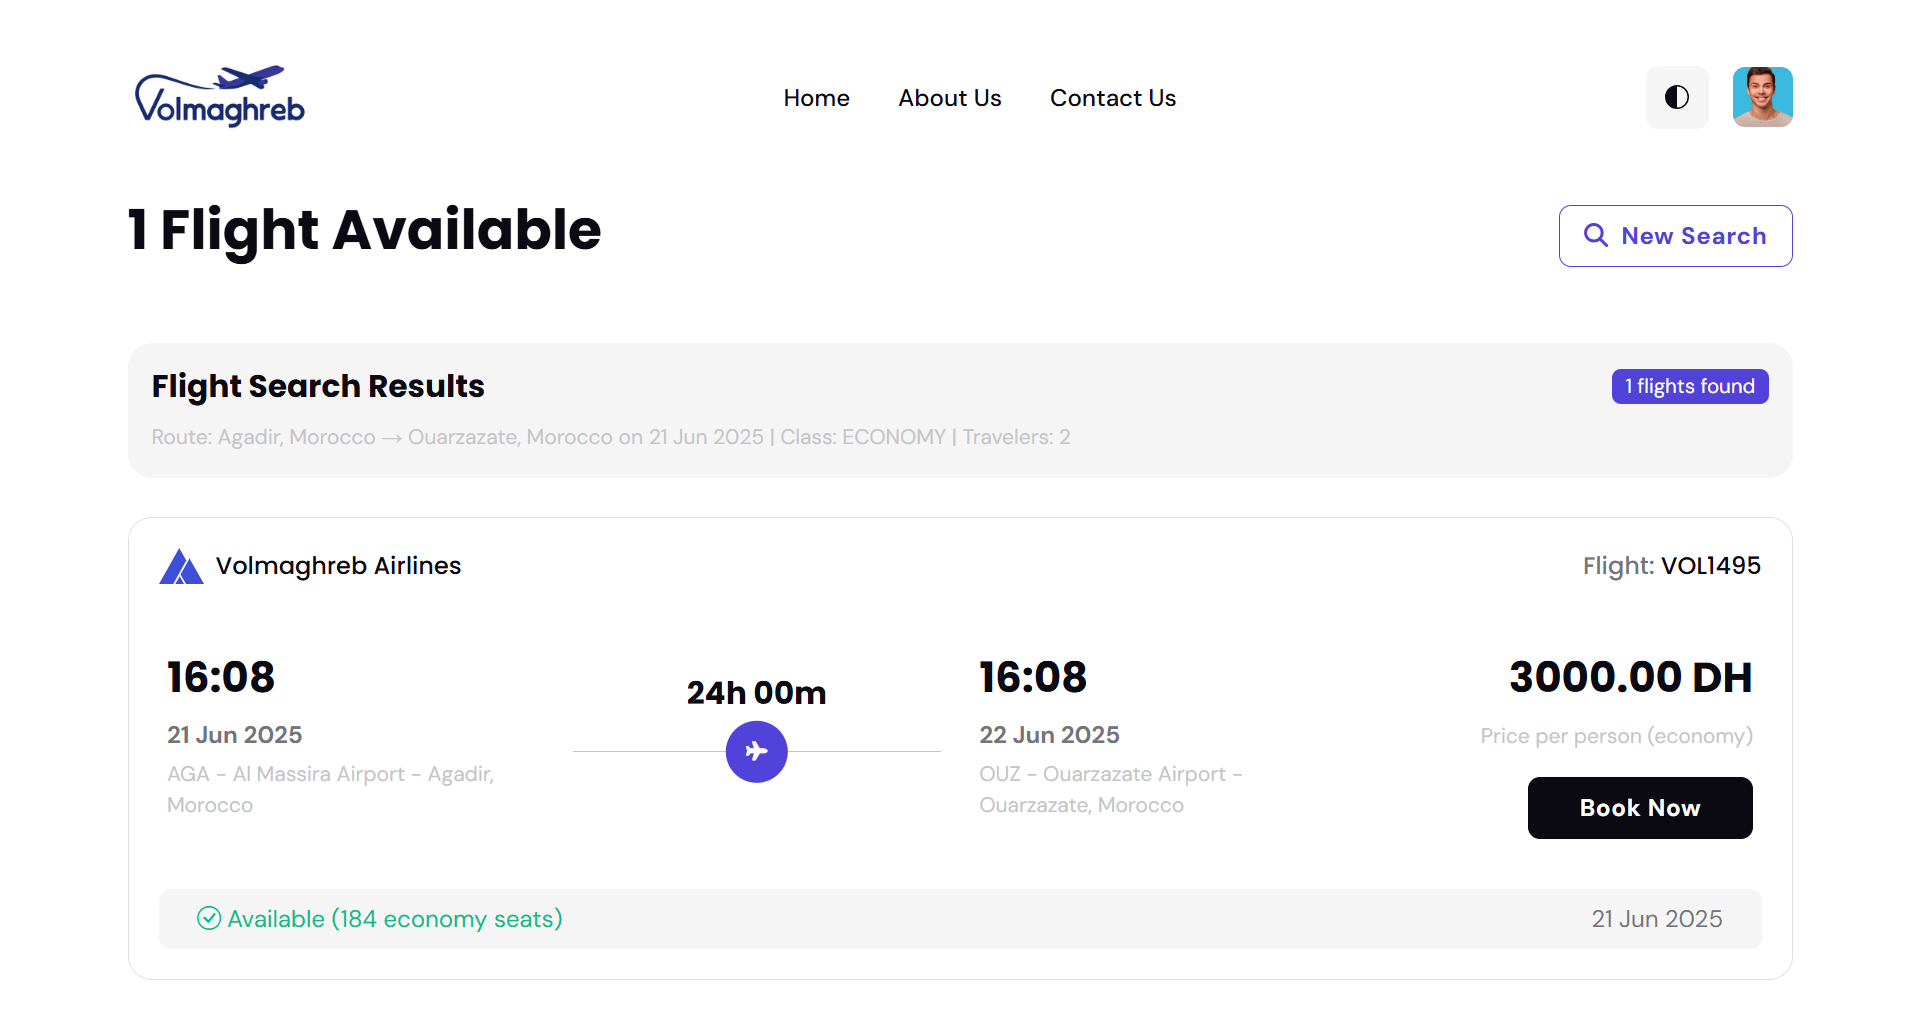
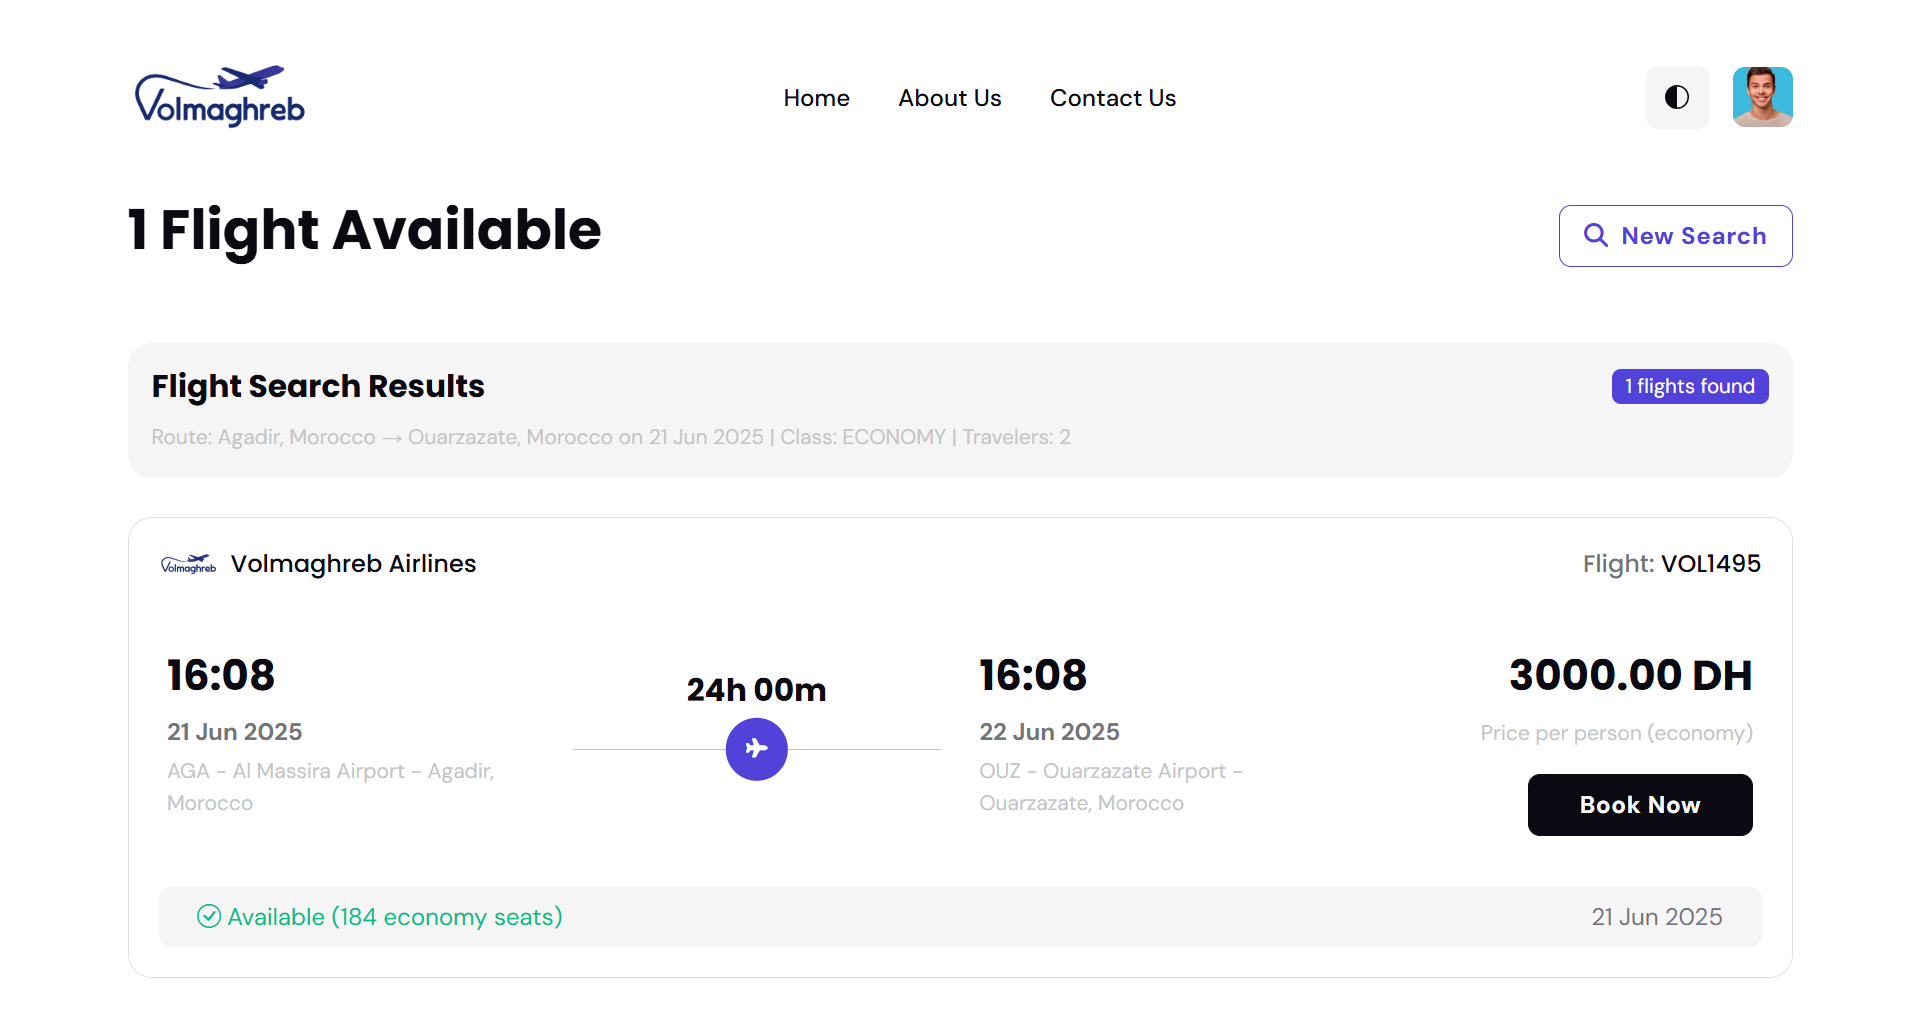
Updates airline branding across flight templates...

diff --git a/src/main/resources/templates/flights/flight-list.html b/src/main/resources/templates/flights/flight-list.html
@@ -78,12 +78,11 @@ Flight list START -->
 					<div th:if="${flights != null and flights.size() > 0}">
 						<div th:each="flight : ${flights}" class="card border">
 							<!-- Card header -->
-							<div class="card-header d-sm-flex justify-content-sm-between align-items-center">
-								<!-- Airline Name -->
-								<div class="d-flex align-items-center mb-2 mb-sm-0">
-									<img th:src="@{/assets/images/element/13.svg}" class="w-30px me-2" alt="">
-									<h6 class="fw-normal mb-0">Volmaghreb Airlines</h6>
-								</div>
+							<div class="card-header d-sm-flex justify-content-sm-between align-items-center">							<!-- Airline Name -->
+							<div class="d-flex align-items-center mb-2 mb-sm-0">
+								<img th:src="@{/assets/images/logo-dark.png}" class="w-40px me-2" alt="Volmaghreb Airlines Logo">
+								<h6 class="fw-normal mb-0">Volmaghreb Airlines</h6>
+							</div>
 								<h6 class="fw-normal mb-0">
 									<span class="text-body">Flight:</span> 
 									<span th:text="${flight.flightNumber}">VM001</span>

diff --git a/src/main/resources/templates/reservations/reservation-detail.html b/src/main/resources/templates/reservations/reservation-detail.html
@@ -56,7 +56,7 @@ Main Content START -->
 								<!-- Air line name -->
 								<div class="col-md-3">
 									<!-- Image -->
-									<img th:src="@{/assets/images/element/13.svg}" class="w-80px mb-3" alt="">
+									<img th:src="@{/assets/images/logo-dark.png}" class="w-90px mb-3" alt="Volmaghreb Airlines Logo">
 									<!-- Title -->
 									<h6 class="fw-normal mb-0" th:text="${flight.airline.name}">Royal Air Maroc</h6>
 								</div>
